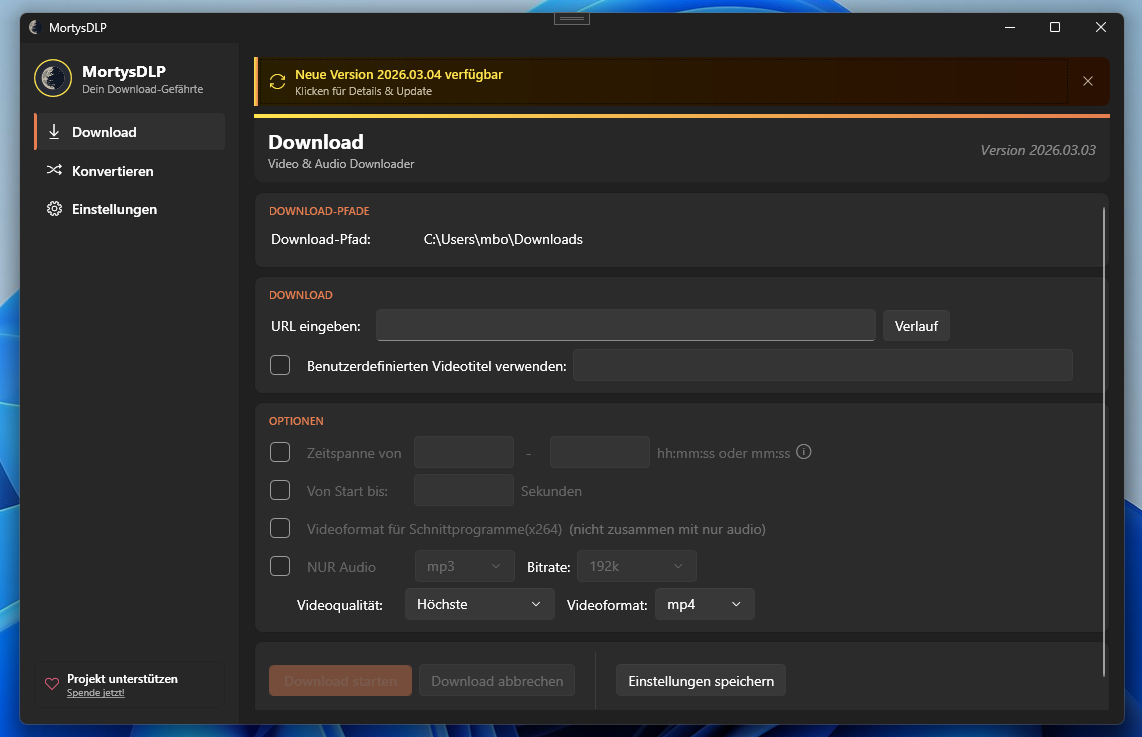
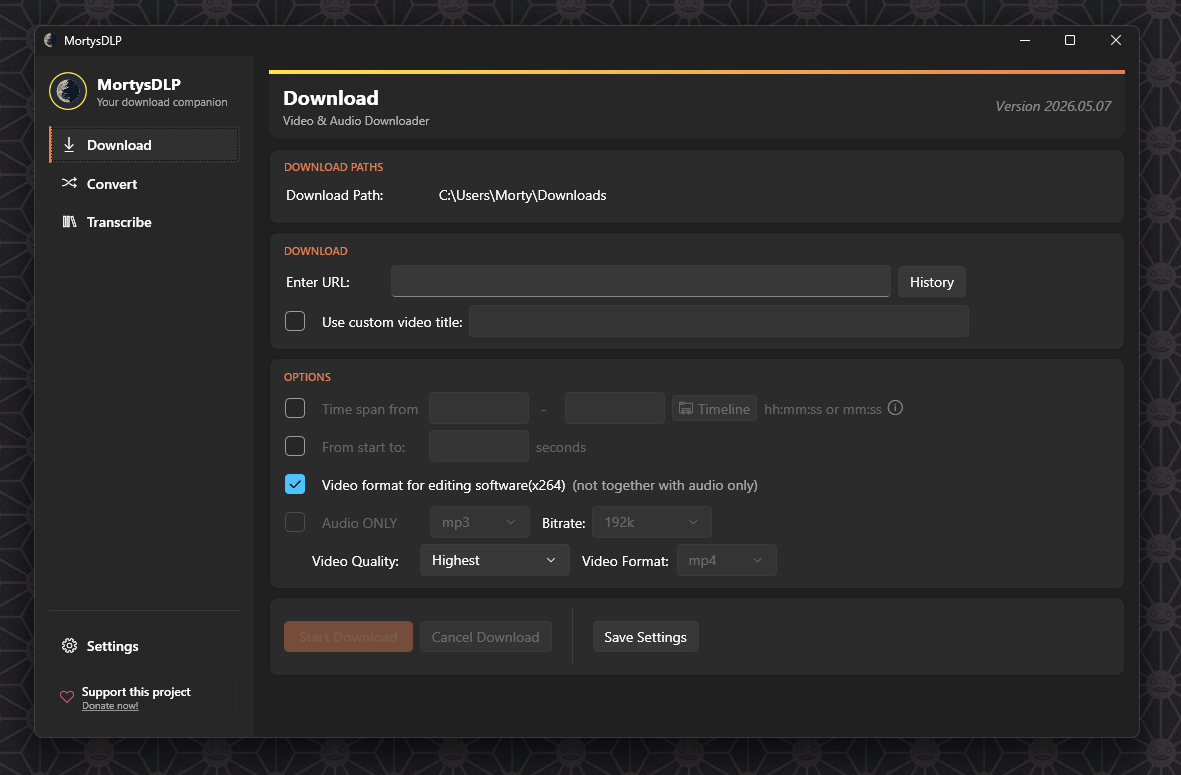
Transkriptionsfunktion in README dokumentiert, Bild aktualisiert
README um ausführliche Beschreibung der neuen Transkriptionsfunktion (Whisper-Integration, unterstützte Formate, Sprachen, Modelle, Schritt-für-Schritt-Anleitung) ergänzt. Beispielbild (mortysdlp-overlay-example.png) aktualisiert.

diff --git a/README.md b/README.md
@@ -28,6 +28,18 @@
 - Selectable target format, output folder, video and audio quality
 - Per-file progress tracking
 
+### Transcribe
+- Transcribe any video or audio file to text — fully **offline**, no data leaves your PC
+- Powered by [whisper.cpp](https://github.com/ggerganov/whisper.cpp) (OpenAI Whisper, running locally)
+- Output formats: plain text (`.txt`), subtitles (`.srt`), WebVTT (`.vtt`)
+- SRT files work directly in DaVinci Resolve, Premiere Pro, and most video editors
+- **19 supported languages** including German, English, French, Spanish, Japanese, Chinese, and more
+- Automatic language detection or manual language selection
+- **Six model sizes** to choose between speed and accuracy: Tiny, Base, Small, Medium, Large-v3-Turbo, Large-v3
+- Whisper engine and language models are downloaded directly inside the app — no manual setup
+- Individual models can be downloaded or deleted to manage disk space
+- **Repair option** — remove only the tool while keeping downloaded models, then reinstall without re-downloading
+
 ### App
 - **Automatic tool management** – yt-dlp, ffmpeg, and ffprobe are downloaded automatically on first launch if missing; yt-dlp is kept up to date
 - **Opt-in software updates** – a subtle banner appears at the top of the window when a new version is available; the changelog is shown before you decide to update
@@ -68,6 +80,14 @@
 2. Choose the target format and output folder
 3. Optionally adjust video and audio quality
 4. Click **Start Conversion**
+
+### Transcribe tab
+1. Open **Manage Whisper** and install the Whisper engine
+2. Download at least one language model (Base is a good starting point)
+3. Go back to the **Transcribe** tab, select your input file
+4. Choose a language model, the spoken language, and the desired output format(s)
+5. Click **Start Transcription** — progress is shown in real time
+6. Once finished, use **Open Folder** to access the output files directly
 
 ### Settings tab
 - Change the default download path and the separate audio-only download path